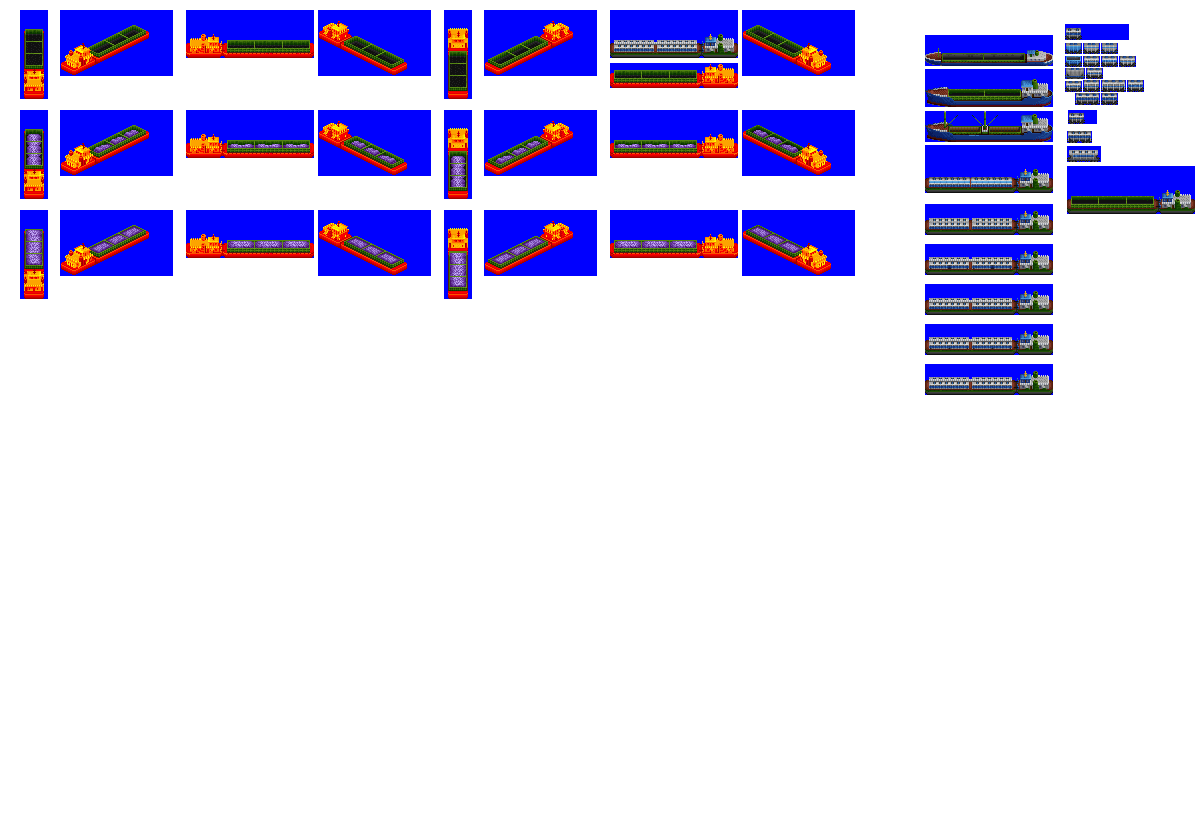
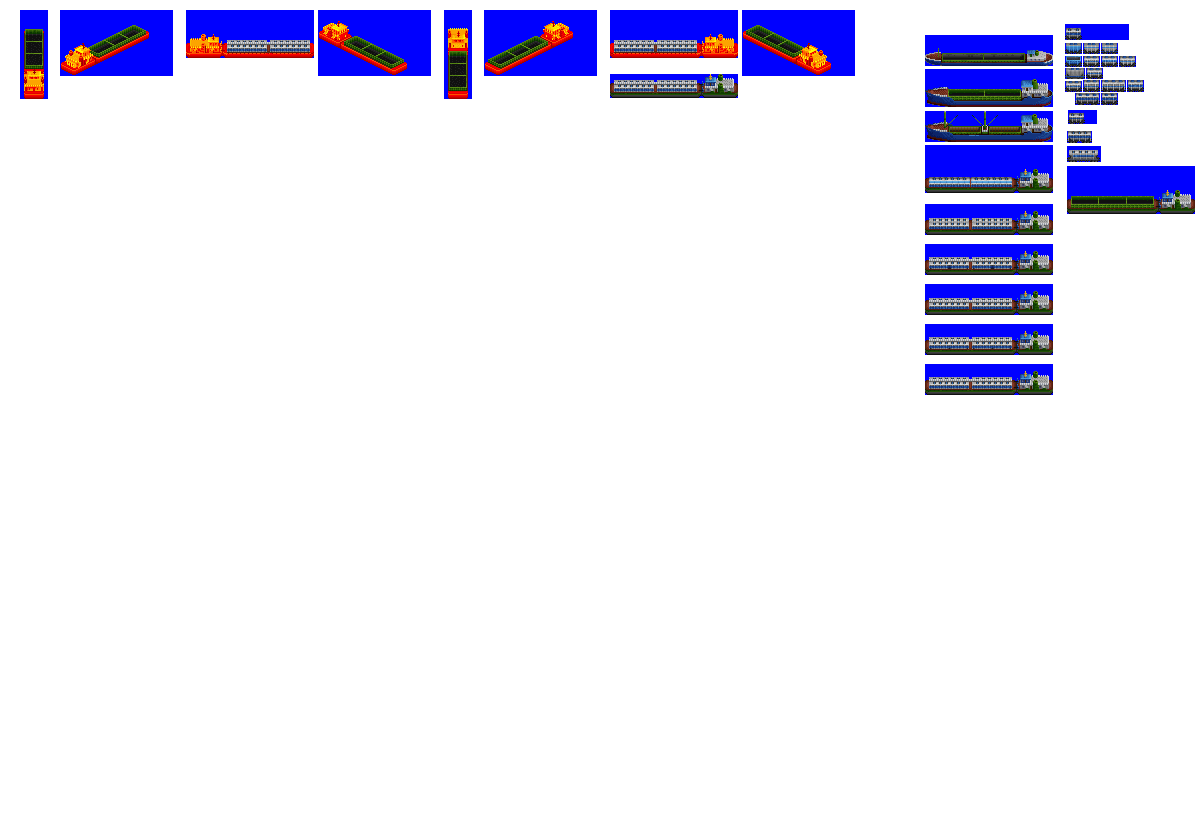
Change: WIP on covered hopper carriers

Changed region(s): [[0.0, 0.0305, 0.74, 0.3659], [0.185, 0.0305, 0.2775, 0.061]]

diff --git a/src/gestalt_graphics/graphics_constants.py b/src/gestalt_graphics/graphics_constants.py
@@ -22,6 +22,9 @@ spritesheet_width = 876
 container_recolour_maps = ({170 + i: CC1 + i for i in range(8)},
                            {170 + i: CC2 + i for i in range(8)},
                            {170 + i: 8 + i for i in range(8)})
+# Livestock carrier, only DFLT is used as of Jan 2018
+covered_hopper_carrier_livery_recolour_maps = (# see note on DFLT above
+                                      ("DFLT", hull_recolour_CC2),)
 # Edibles tankers, only DFLT is used as of Jan 2018
 edibles_tanker_livery_recolour_maps = (# see note on DFLT above
                                       ("DFLT", {136: 5, 137: 7, 138: 8, 139: 9,

diff --git a/src/ship.py b/src/ship.py
@@ -307,8 +307,7 @@ class CoveredHopperCarrier(Ship):
         self.default_cargos = global_constants.default_cargos['covered_hopper']
         self.loading_speed_multiplier = 2
         # Graphics configuration
-        self.gestalt_graphics = GestaltGraphicsVisibleCargo(bulk=True,
-                                                            hull_recolour_map=graphics_constants.hull_recolour_CC2)
+        self.gestalt_graphics = GestaltGraphicsLiveryOnly(recolour_maps=graphics_constants.edibles_tanker_livery_recolour_maps)
 
 
 class EdiblesTanker(Ship):
